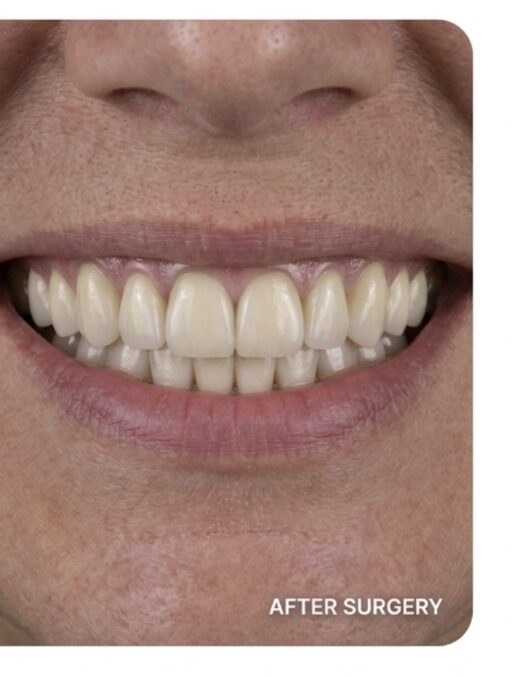
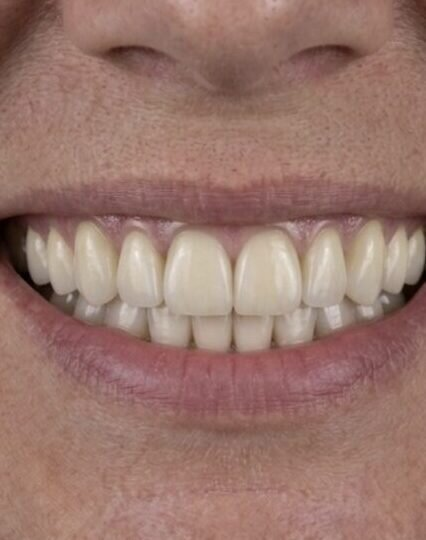
fix: Before & After section was invisible
The slider had no width and its photos are absolutely positioned, so
inside the grid (with margin: auto) it shrank to 0×0 and the section
looked empty on every screen size. Give it width: 100% (max 440px).

Also:
- Crop the photos to remove the baked-in white border, divider line and
  "BEFORE/AFTER SURGERY" text, and align the two faces so the slider
  transitions smoothly.
- Add Before / After labels and a visible divider with a drag handle
  that follows the slider; focus outline for keyboard users.
- Bump the service-worker cache so returning visitors get the new photos.
- Test that the slider keeps an explicit width.

Claude-Session: https://claude.ai/code/session_01H2EkcWyDKcC5uieXZDhKQe

diff --git a/assets/css/styles.css b/assets/css/styles.css
@@ -199,14 +199,21 @@ button[type=submit] + .field-hint { margin: 10px 0 0; }
 
 
 /* Before/After drag slider */
-.ba-grid { display: grid; gap: 24px; }
-@media (min-width:700px){ .ba-grid { grid-template-columns: repeat(2,1fr); } }
-.ba-slider { position: relative; border-radius: var(--radius); overflow: hidden; aspect-ratio: 512/677; user-select: none; max-width: 512px; margin: 0 auto; }
+.ba-grid { display: grid; gap: 24px; grid-template-columns: repeat(auto-fit, minmax(min(100%, 300px), 1fr)); justify-items: center; margin-top: 24px; }
+/* width: 100% is required: the photos are absolutely positioned, so without
+   it the slider shrinks to 0×0 inside the grid and the section looks empty */
+.ba-slider { --pos: 50%; position: relative; width: 100%; max-width: 440px; aspect-ratio: 426/540; border-radius: var(--radius); overflow: hidden; user-select: none; box-shadow: var(--shadow-lg); background: var(--surface); }
 .ba-slider img { position: absolute; inset: 0; width: 100%; height: 100%; object-fit: cover; }
 .ba-after { z-index: 1; }
 .ba-before { z-index: 2; }
-.ba-slider input[type=range] { position: absolute; inset: 0; width: 100%; height: 100%; opacity: 0; cursor: ew-resize; z-index: 3; margin: 0; }
-.ba-slider::after { content: '◀ ▶'; position: absolute; top: 50%; left: 50%; transform: translate(-50%,-50%); color: #fff; pointer-events: none; }
+.ba-slider input[type=range] { position: absolute; inset: 0; width: 100%; height: 100%; opacity: 0; cursor: ew-resize; z-index: 5; margin: 0; }
+.ba-divider { position: absolute; top: 0; bottom: 0; left: var(--pos); width: 3px; background: #fff; transform: translateX(-50%); z-index: 3; pointer-events: none; box-shadow: 0 0 8px rgba(0,0,0,.25); }
+.ba-handle { position: absolute; top: 50%; left: 50%; width: 44px; height: 44px; border-radius: 50%; background: #fff; color: var(--teal); transform: translate(-50%,-50%); display: grid; place-items: center; font-size: .8rem; font-weight: 700; letter-spacing: -1px; box-shadow: 0 4px 14px rgba(0,0,0,.25); }
+.ba-label { position: absolute; top: 14px; z-index: 4; padding: 4px 12px; border-radius: 999px; background: rgba(15,23,42,.65); color: #fff; font-size: .8rem; font-weight: 600; pointer-events: none; }
+.ba-label.before { left: 14px; }
+.ba-label.after { right: 14px; }
+.ba-slider:has(input:focus-visible) { outline: 3px solid var(--teal); outline-offset: 3px; }
+.ba-caption { text-align: center; margin-top: 12px; font-size: .9rem; }
 
 /* FAQ accordion */
 .faq { background: var(--surface); border-radius: var(--radius-sm); box-shadow: var(--shadow); margin-bottom: 12px; padding: 0 20px; }

diff --git a/index.html b/index.html
@@ -199,11 +199,14 @@
     <section id="gallery" class="alt">
       <div class="container">
         <h2 data-reveal data-i18n="gallery.title">Before & After</h2>
-        <p class="muted" data-reveal data-i18n="gallery.subtitle">Drag to compare real implant & smile-makeover cases.</p>
+        <p class="muted" data-reveal data-i18n="gallery.subtitle">Drag the slider to compare before and after treatment.</p>
         <div class="ba-grid" data-reveal>
           <div class="ba-slider" data-ba>
             <img class="ba-after" src="assets/img/before-after-1-after.jpg" alt="After implant treatment">
             <img class="ba-before" src="assets/img/before-after-1-before.jpg" alt="Before implant treatment">
+            <span class="ba-label before" aria-hidden="true">Before</span>
+            <span class="ba-label after" aria-hidden="true">After</span>
+            <span class="ba-divider" aria-hidden="true"><span class="ba-handle">◀▶</span></span>
             <input type="range" min="0" max="100" value="50" aria-label="Before/after comparison slider">
           </div>
         </div>

diff --git a/assets/js/lib/slider.js b/assets/js/lib/slider.js
@@ -3,7 +3,10 @@ export function initBeforeAfter(selector = '[data-ba]') {
     const before = slider.querySelector('.ba-before');
     const range = slider.querySelector('input[type=range]');
     if (!before || !range) return;
-    const update = () => { before.style.clipPath = `inset(0 ${100 - range.value}% 0 0)`; };
+    const update = () => {
+      before.style.clipPath = `inset(0 ${100 - range.value}% 0 0)`;
+      slider.style.setProperty('--pos', `${range.value}%`);
+    };
     range.addEventListener('input', update);
     update();
   });

diff --git a/test/sanity.test.js b/test/sanity.test.js
@@ -47,3 +47,11 @@ test('service pages have valid FAQPage JSON-LD', () => {
     assert.ok(ld.mainEntity.length >= 3);
   }
 });
+
+test('before/after slider has an explicit width (else it collapses to 0×0)', () => {
+  const css = readFileSync(new URL('../assets/css/styles.css', import.meta.url), 'utf8');
+  const rule = css.match(/\.ba-slider \{([^}]*)\}/);
+  assert.ok(rule, 'missing .ba-slider rule');
+  assert.match(rule[1], /width:\s*100%/);
+  assert.match(rule[1], /aspect-ratio/);
+});

diff --git a/sw.js b/sw.js
@@ -1,5 +1,5 @@
 // Bump CACHE whenever you deploy changes you want every visitor to get.
-const CACHE = 'dental-v3';
+const CACHE = 'dental-v4';
 const STATIC = ['./', './index.html', './assets/css/styles.css', './assets/js/components.js', './assets/js/main.js', './assets/data/clinic.json', './manifest.json'];
 
 self.addEventListener('install', (e) => {
